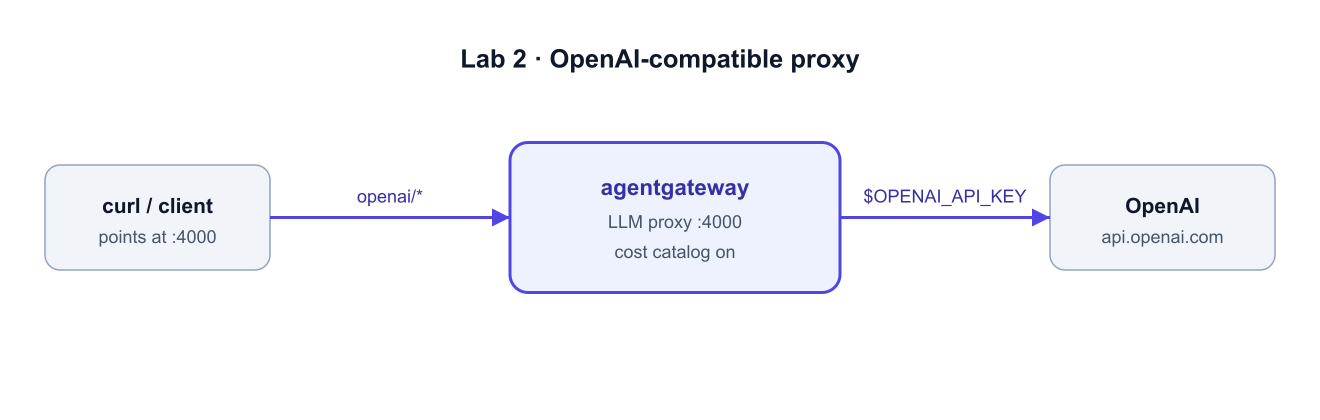
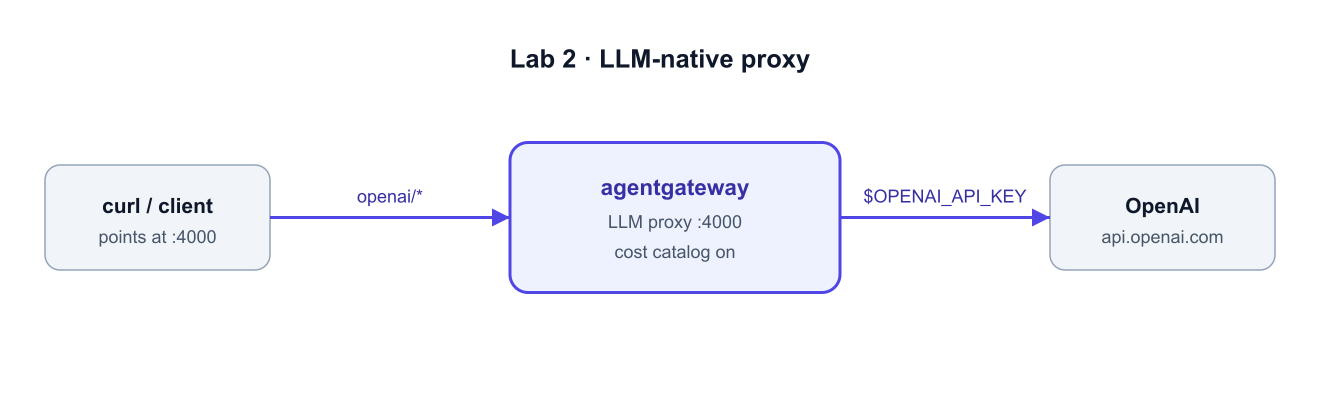
Reword 'OpenAI-compatible proxy' -> 'LLM-native proxy' (multi-provider)
Agentgateway fronts Anthropic, Gemini, Bedrock, etc. — not just OpenAI. Updates
Lab 2 teaser/notes/body + diagram + README to say "LLM-native proxy" and note
OpenAI is only the example. Commands keep OpenAI as the concrete model.

Changed region(s): [[0.3417, 0.0929, 0.6523, 0.1857]]

diff --git a/00-agentgateway-tokenomic/02-add-an-llm/assignment.md b/00-agentgateway-tokenomic/02-add-an-llm/assignment.md
@@ -3,12 +3,13 @@ slug: add-an-llm
 id: ss7rwb9xy9yo
 type: challenge
 title: Add an LLM
-teaser: Turn the gateway into an OpenAI-compatible proxy.
+teaser: Turn the gateway into an LLM-native proxy.
 notes:
 - type: text
-  contents: "# \U0001F310 Add an LLM\n\nPoint the gateway at OpenAI and it becomes
-    an OpenAI-compatible proxy your apps\ncall instead of api.openai.com — with cost
-    tracking on by default.\n"
+  contents: "# \U0001F310 Add an LLM\n\nPut a model behind the gateway and it becomes
+    an **LLM-native proxy** — one\nendpoint your apps point at instead of calling
+    providers directly. We use\nOpenAI here, but the same gateway fronts Anthropic,
+    Gemini, Bedrock, and more,\nwith cost tracking on by default.\n"
 tabs:
 - id: 2x4vmpolxfao
   title: Terminal
@@ -31,10 +32,12 @@ enhanced_loading: null
 
 # Add an LLM
 
-![Lab 2 — OpenAI-compatible proxy](../assets/diagram-02-llm.png)
+![Lab 2 — LLM-native proxy](../assets/diagram-02-llm.png)
 
 **What we're building:** an `llm.models` entry so clients call `openai/...` through
-`:4000` and the gateway forwards to OpenAI using a key they never see.
+`:4000` and the gateway forwards to OpenAI using a key they never see. OpenAI is just
+the example here — add `anthropic/*`, `gemini/*`, `bedrock/*`, etc. the same way, and
+every provider rides the same gateway, logs, and cost tracking.
 
 ## Step 1 — Add an OpenAI model
 

diff --git a/00-agentgateway-tokenomic/README.md b/00-agentgateway-tokenomic/README.md
@@ -1,7 +1,8 @@
 # Agentgateway Tokenomics: See and Govern Your AI Token Spend (Instruqt track)
 
 A 4-lab standalone Agentgateway lab. The learner stands up the gateway as their AI
-control point, turns it into an OpenAI-compatible proxy, attaches a separate
+control point, turns it into an LLM-native proxy (OpenAI as the example; Anthropic,
+Gemini, Bedrock, etc. work the same way), attaches a separate
 everything-MCP server over HTTP, and analyzes a week of pre-seeded token spend.
 (Implementation detail: the gateway and MCP server run as Docker containers — this
 is plumbing, not the lesson.)